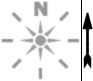
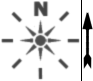
fixed bitmaps, fixed some exmples

diff --git a/bin/_showcase/jsgateway/index.html b/bin/_showcase/jsgateway/index.html
@@ -57,16 +57,18 @@
 			params.devicefont = "false";
 			params.allowfullscreen = "true";
 			params.allowscriptaccess = "sameDomain";
-			swfobject.embedSWF("../../SaladoPlayer-1.2.7.swf", "SaladoPlayer", "100%", "80%", "10.0.0", "../../embed/expressInstall.swf", flashvars, params);
+			swfobject.embedSWF("../../SaladoPlayer-1.2.10.swf", "SaladoPlayer", "100%", "100%", "10.0.0", "../../embed/expressInstall.swf", flashvars, params);
 		</script>
+		<link type="text/css" href="resources/style.css" rel="stylesheet">
 	</head>
 	<body bgcolor="#000000">
-		<div id="SaladoPlayer">
-			<a href="http://www.adobe.com/go/getflashplayer">
-				<img src="../../embed/get_flash_player.gif" alt="Get Adobe Flash player" />
-			</a>
-		</div>
-		<div style="text-align:center; margin-top:10px;">
+		<div id="wrapper">
+			<div id="SaladoPlayer">
+				<a href="http://www.adobe.com/go/getflashplayer">
+					<img src="../../embed/get_flash_player.gif" alt="Get Adobe Flash player"/>
+				</a>
+			</div>
+			<div style="text-align:center; margin-top:10px;">
 			<u><a href="#" onClick="handleClick1('javaScriptToSaladoPlayer');">Click here to execute action "javaScriptToSaladoPlayer"</a></u>
 			<u><a href="#" onClick="handleClick2();">Click here to call exposed actionscript function</a></u>
 			<form>

diff --git a/bin/_showcase/jsgateway/resources/style.css b/bin/_showcase/jsgateway/resources/style.css
@@ -1,0 +1,12 @@
+body, html {
+	margin:0;
+	padding:0;
+}
+
+#wrapper {
+	position:fixed;
+	left:0px;
+	top:0;
+	right:0;
+	bottom:50px;
+}
